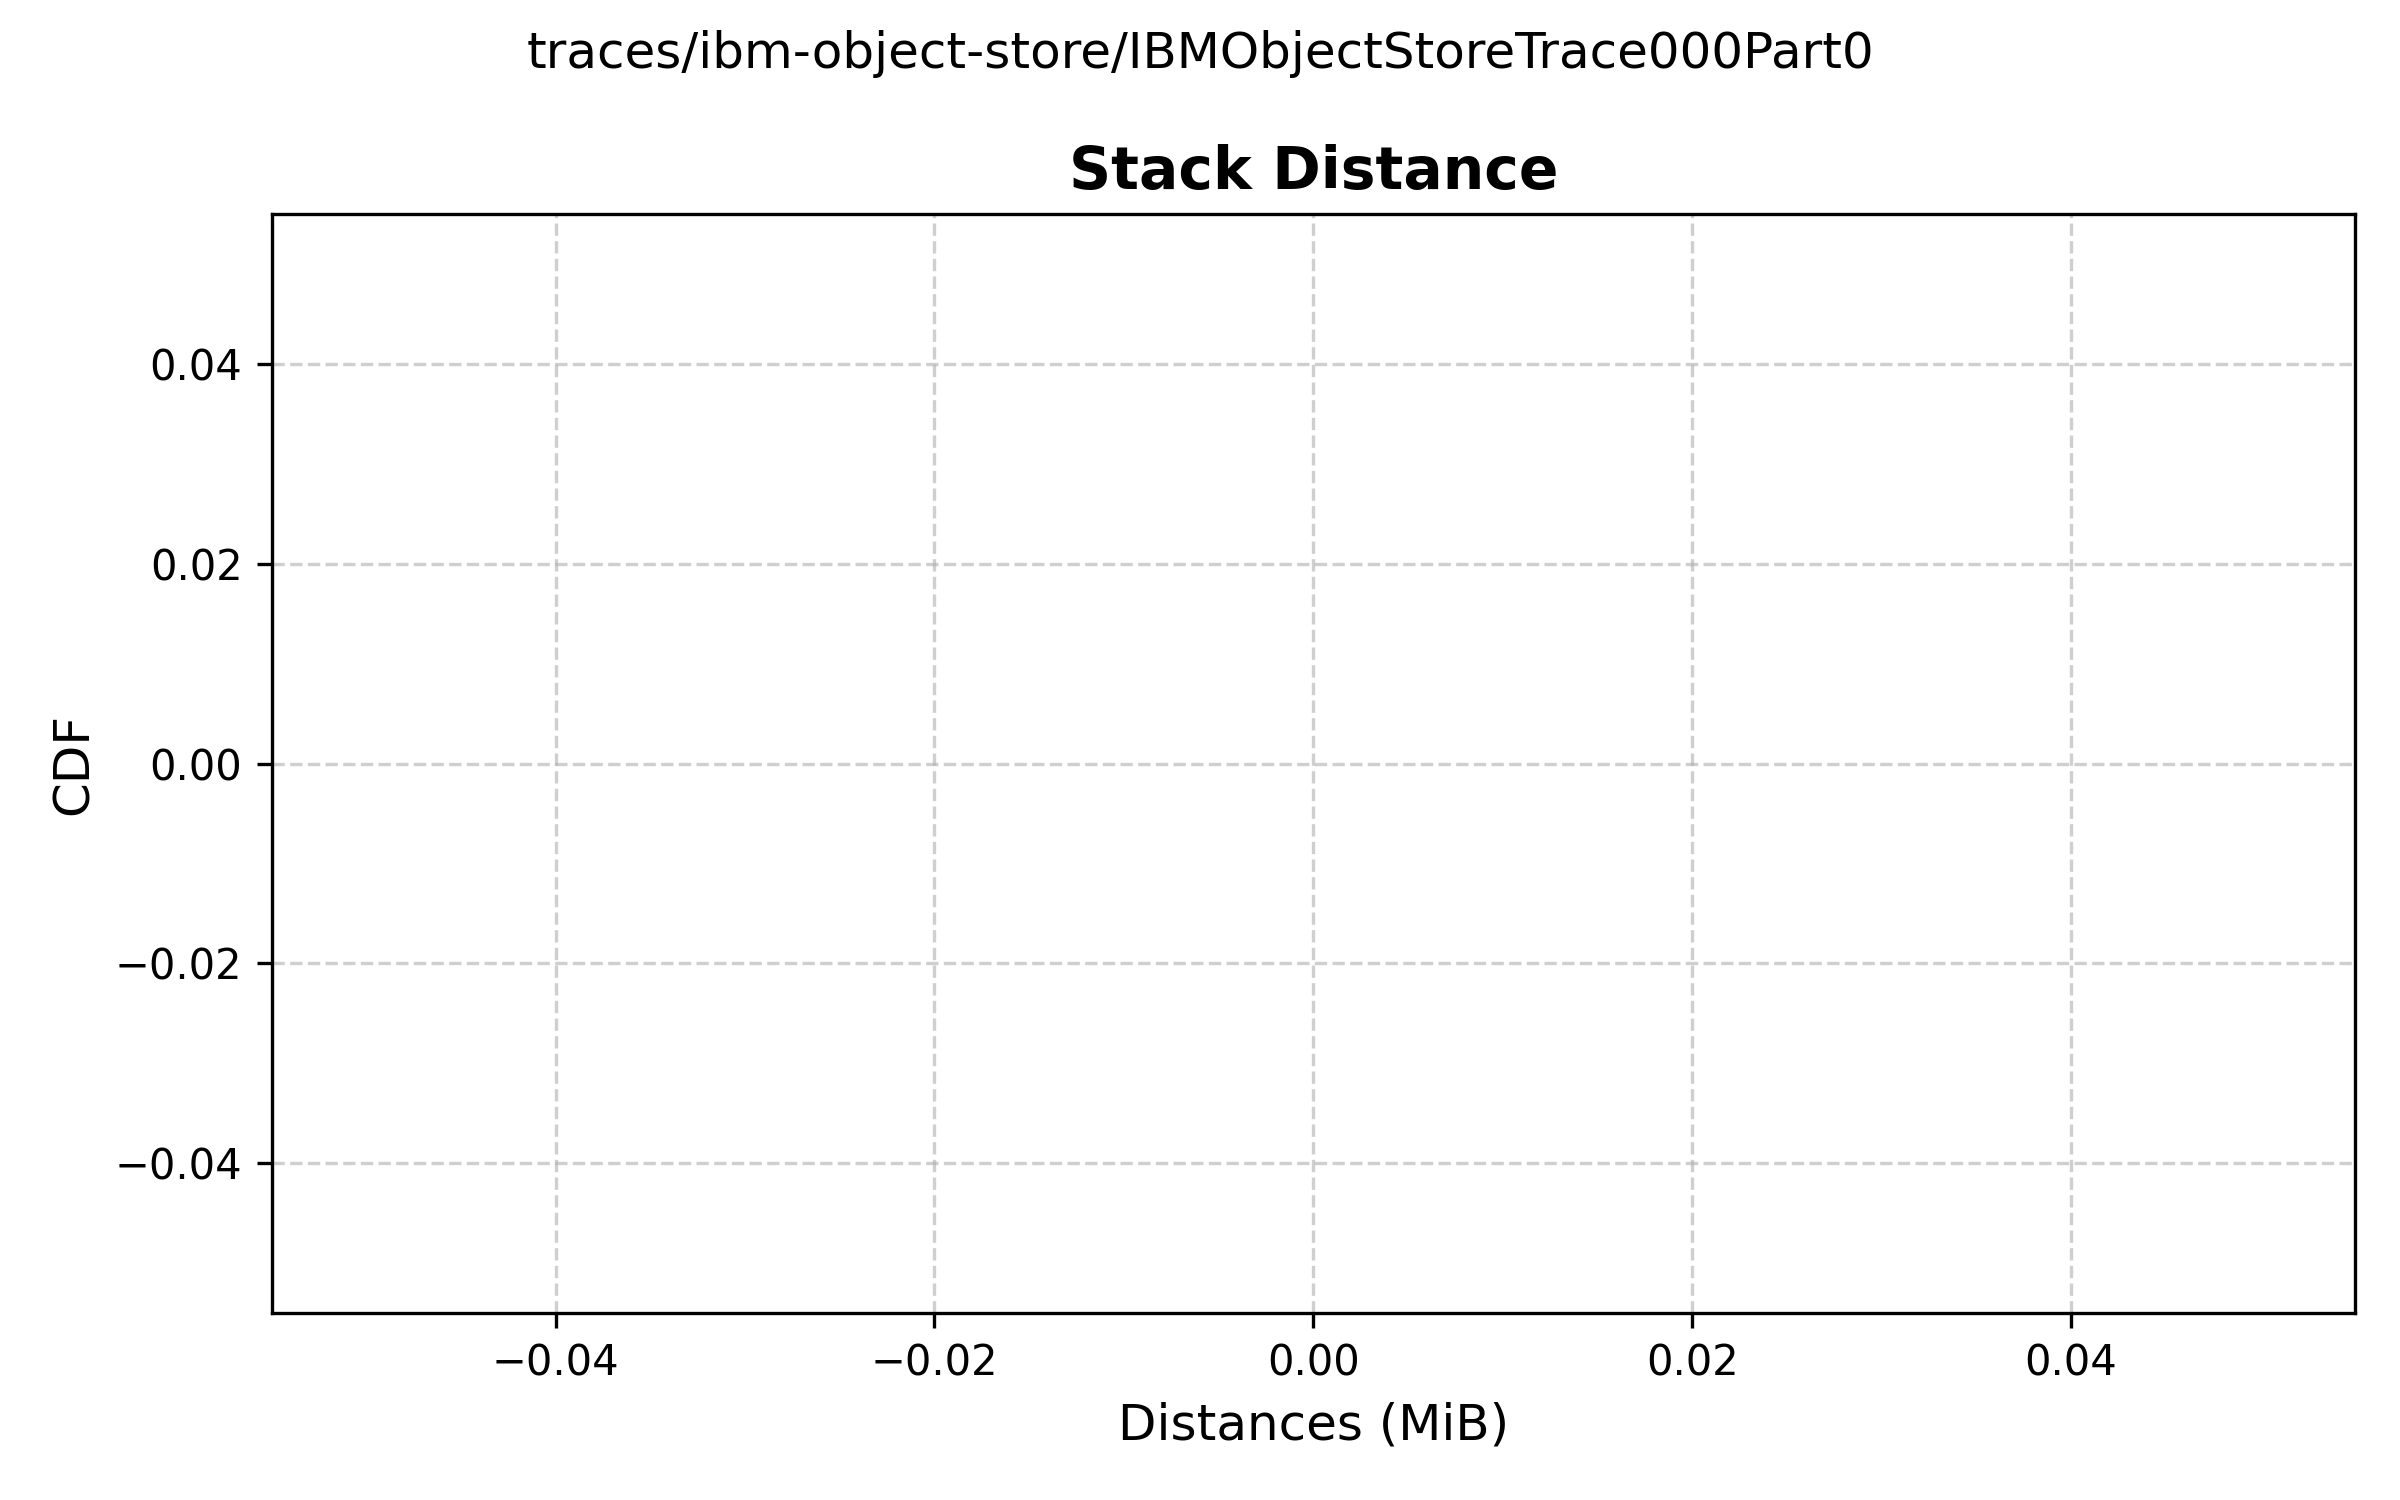
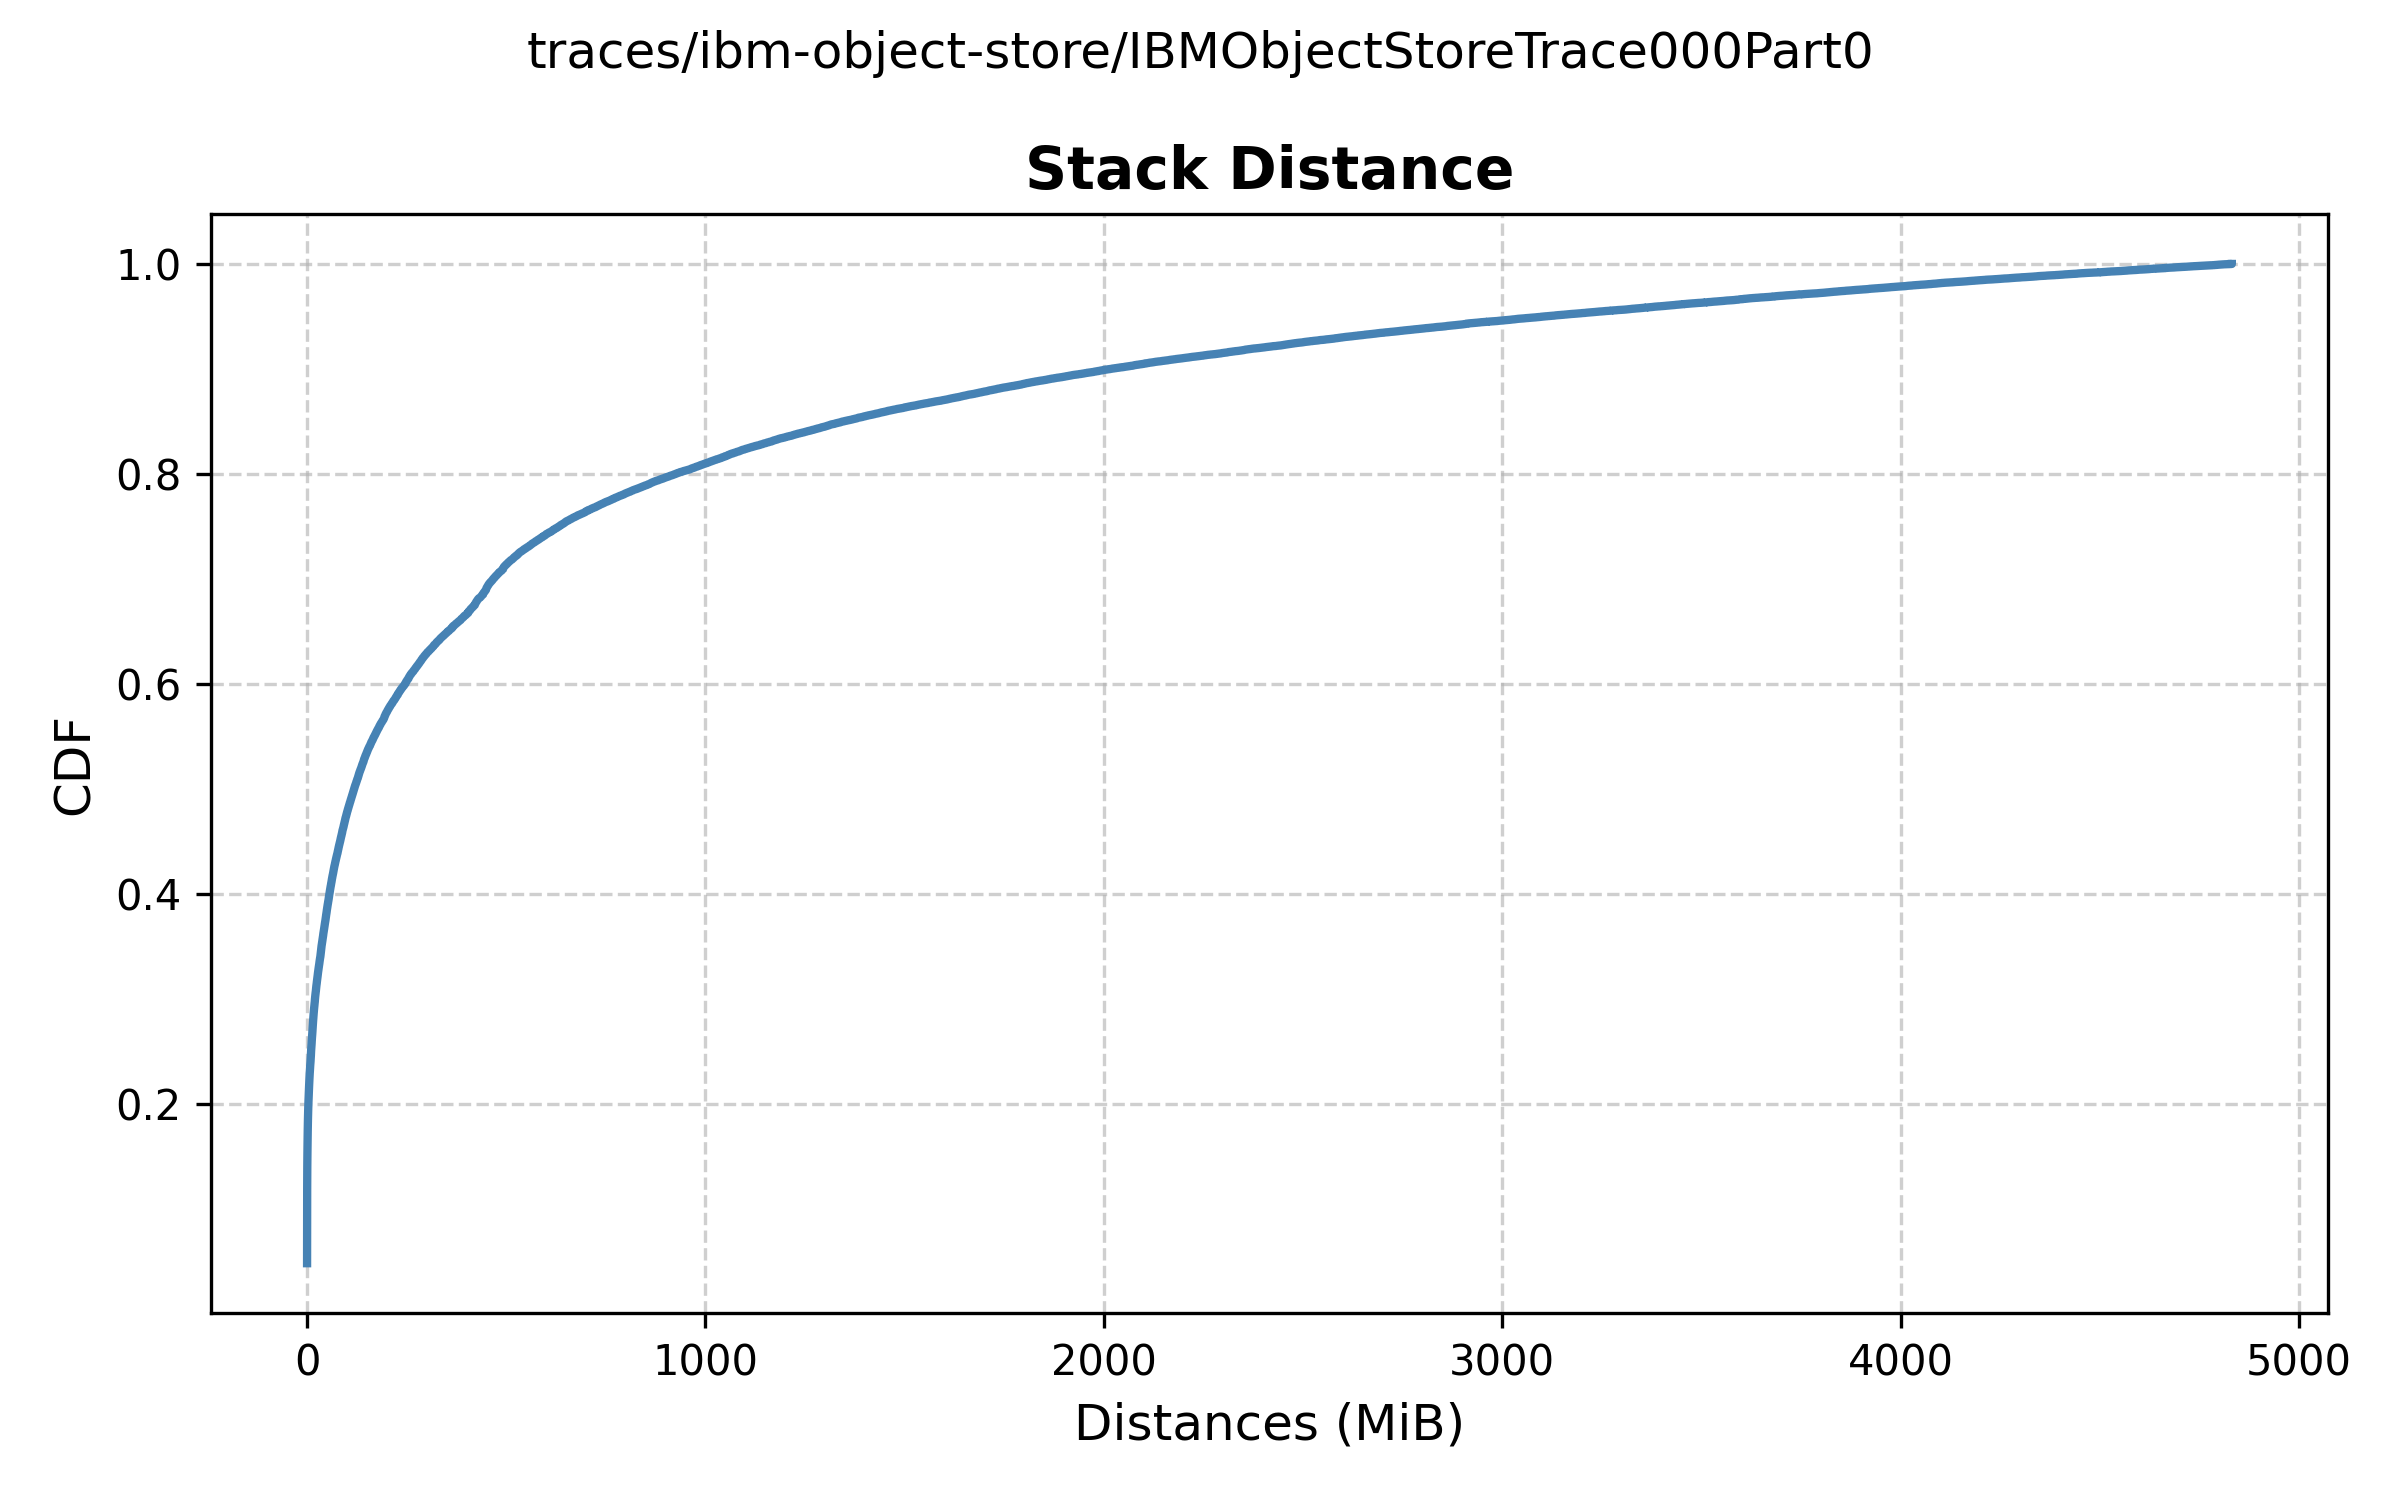
fix cdf

diff --git a/cdf.py b/cdf.py
@@ -35,29 +35,33 @@ def main():
         trace_name = file_path.split("_")[0]
         output_image = f"{file_path}.cdf.png"
         file = open(file_path)
+
         if datatype == WORKING_SET:
             file.readline()
-        normalizer = units.get(unit, 1)
-        distances = list(map(lambda distance: int(distance.strip()) / normalizer, file.readlines()))
-        distances = np.array(distances)
+        values = list(map(lambda value: int(value.strip()), file.readlines()))
 
-        q1 = np.percentile(distances, 25)
-        q3 = np.percentile(distances, 75)
+        normalizer = units.get(unit, 1)
+        if normalizer != 1:
+            values = list(map(lambda value: value / normalizer, values))
+        values = np.array(values)
+
+        q1 = np.percentile(values, 25)
+        q3 = np.percentile(values, 75)
         iqr = q3 - q1
         lower = max(q1 - 1.5 * iqr, 0)
         upper = q3 + 1.5 * iqr
-        distances = distances[(distances >= lower) & (distances <= upper)]
+        values = values[(values >= lower) & (values <= upper)]
 
         if min_val != -1:
-            distances = distances[distances >= min_val]
-        if max != -1:
-            distances = distances[distances <= max_val]
+            values = values[values >= min_val]
+        if max_val != -1:
+            values = values[values <= max_val]
 
-        values, counts = np.unique(distances, return_counts=True)
+        values, counts = np.unique(values, return_counts=True)
         cdf = np.cumsum(counts) / counts.sum()
 
         if datatype == STACK_DISTANCE:
-            title = STACK_DISTANCE_LABEL 
+            title = STACK_DISTANCE_LABEL
             xlabel = "Distances"
             if unit:
                 xlabel = f"{xlabel} ({unit})"
